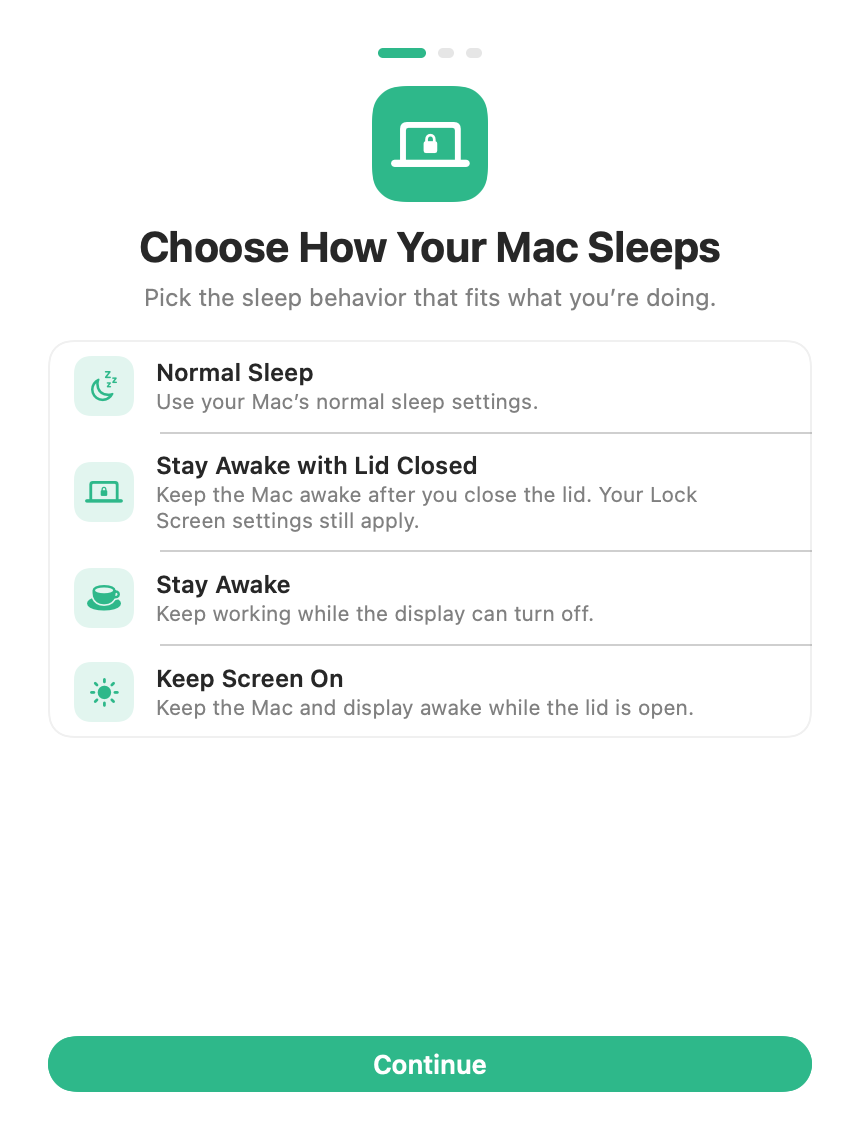
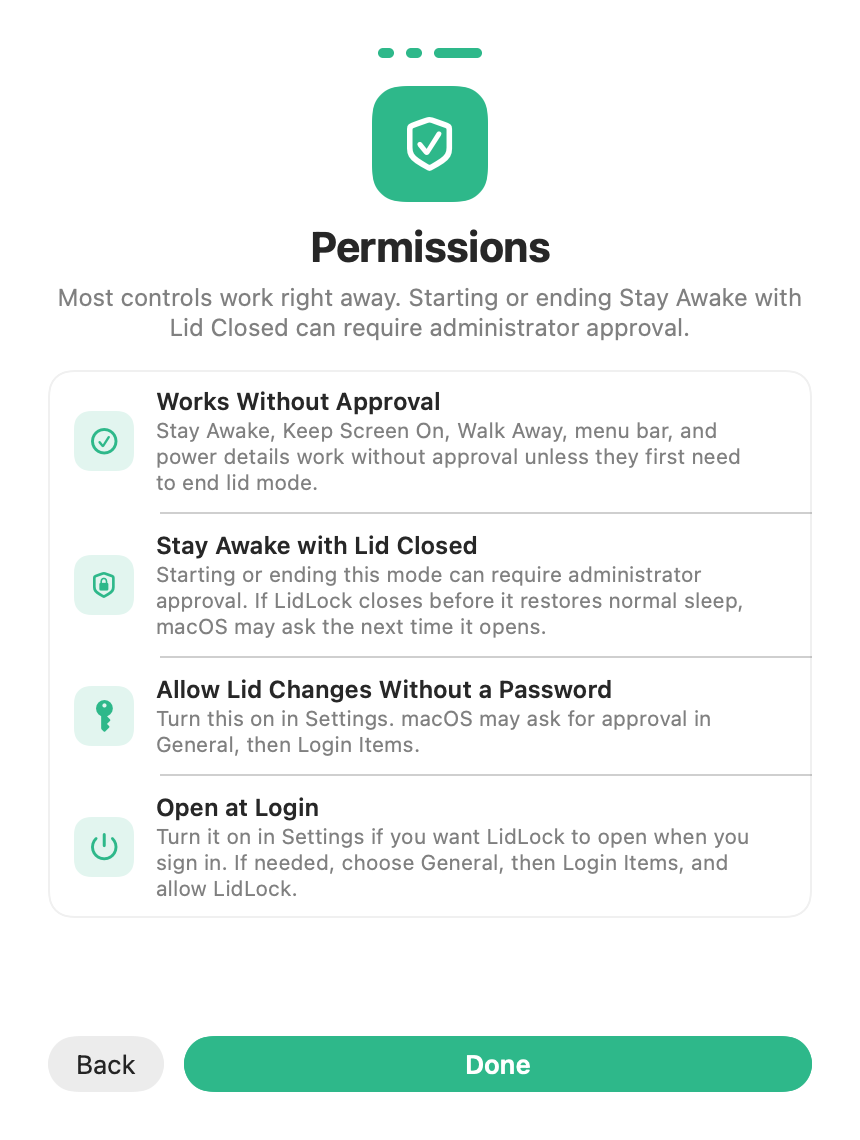
Publish LidLock 1.2.2
Publish the 1.2.2 distribution metadata, permission guidance, release notes, checksum, issue template version, and updated onboarding screenshot.

diff --git a/GETTING_STARTED.md b/GETTING_STARTED.md
@@ -4,7 +4,7 @@ LidLock is a macOS menu bar utility for controlling when your Mac and display
 sleep. It is free to use, requires no account, and does not collect personal
 information.
 
-The current public download is version 1.2.1.
+The current public download is version 1.2.2.
 
 ## Install LidLock
 
@@ -13,14 +13,17 @@ The current public download is version 1.2.1.
 3. Open LidLock from Applications.
 4. macOS checks that DelPage Technologies signed the app and Apple notarized it.
 
-Move LidLock to Applications when you want the optional password-free helper.
-The rest of the app can run without that helper.
+Move LidLock to Applications when you want to allow lid changes without a
+password. The rest of the app can run without that approval.
 
 ## First Launch
 
 On first launch, LidLock explains each sleep option and Walk Away. It also shows
-where to find LidLock after you close its window. The guide explains why Stay
-Awake with Lid Closed needs an administrator password.
+where to find LidLock after you close its window. The permissions page explains
+which controls work immediately, when macOS may ask for administrator approval,
+and when approval must be completed in Login Items.
+
+LidLock shows another prompt before a protected action and explains the next step.
 
 You can reopen this guide anytime from **Settings**, then **Getting Started**.
 
@@ -45,18 +48,22 @@ When you choose **Stay Awake with Lid Closed**, LidLock reads the lid-close
 sleep setting back before it shows **Active**. While the mode is active, LidLock
 holds a stronger system sleep assertion to help keep the Mac awake.
 
-In version 1.2.1, the mode no longer issues a display sleep command when the lid
-closes. This removes LidLock's direct Lock Screen trigger. Your macOS Lock Screen
-settings still apply.
+Since version 1.2.1, the mode no longer issues a display sleep command when the
+lid closes. This removes LidLock's direct Lock Screen trigger. Your macOS Lock
+Screen settings still apply.
 
 ## Permissions and Approvals
 
 | Feature | What macOS may request | Why |
 |---|---|---|
 | Normal Sleep, Stay Awake, Keep Screen On, and Walk Away | Nothing | They work as soon as LidLock opens. |
-| Stay Awake with Lid Closed | Administrator password | macOS protects changes to how the Mac sleeps with its lid shut. |
-| Password-free lid control | Optional helper approval | The signed helper can change only the lid sleep setting. |
+| Stay Awake with Lid Closed | Administrator approval when saved approval is off | macOS protects changes to how the Mac sleeps with its lid shut. |
+| Allow lid changes without a password | Optional Login Items approval | The signed helper can change only the lid sleep setting. |
 | Open at login | Optional approval under Login Items | macOS lets you decide which apps open when you sign in. |
+
+LidLock explains the extra step before it continues. When Login Items approval
+is required, the prompt can open the correct System Settings page. Settings also
+shows **Waiting for approval** until macOS reports that the request is enabled.
 
 LidLock does not request access to your files, screen contents, camera,
 microphone, location, contacts, or Accessibility controls.
@@ -66,24 +73,27 @@ microphone, location, contacts, or Accessibility controls.
 Stay Awake with Lid Closed changes how the Mac sleeps when you close its lid.
 macOS asks for an administrator password when that setting changes.
 
-Before the password prompt appears, LidLock explains what will change. The Mac
-can stay awake while you keep the lid closed. This does not give
+Before the password prompt appears, LidLock explains what will change and lets
+you continue or cancel. The same guidance appears when restoring normal sleep if
+administrator approval is needed. These approvals do not give
 LidLock access to your files, screen, or other apps.
 
-### Optional Password-free Helper
+### Optional Approval for Lid Changes
 
 Without the helper, macOS may ask for an administrator password when you turn
 Stay Awake with Lid Closed on or off. If you prefer fewer prompts, open
-**Settings** and enable **Use password-free lid control**.
+**Settings** and enable **Allow lid changes without a password**.
 
 The helper is optional. DelPage Technologies signs it, and it changes only the
-lid sleep setting. Turn the same setting off to remove it. All other LidLock
-features work without the helper.
+lid sleep setting. macOS may ask you to approve LidLock under **System Settings**,
+**General**, **Login Items**. LidLock can open that page for you. Turn the same
+setting off to remove the approval. All other LidLock features work without it.
 
 ### Optional Open at Login
 
 Open at login is off until you enable it. macOS may ask you to approve LidLock
-under **System Settings**, **General**, **Login Items**. This approval only lets
+under **System Settings**, **General**, **Login Items**. LidLock shows an
+**Open Login Items** button when that step is needed. This approval only lets
 LidLock open after you sign in.
 
 ## Replace Older Copies
@@ -91,7 +101,7 @@ LidLock open after you sign in.
 When you update LidLock, remove older copies before installing the new version:
 
 1. Choose **Normal Sleep** in the copy you are currently using.
-2. Turn off **Use password-free lid control** and **Open at login** in Settings.
+2. Turn off **Allow lid changes without a password** and **Open at login** in Settings.
 3. Choose **Quit LidLock** from the menu bar.
 4. Remove every `LidLock.app` from Applications, your user Applications folder, and Downloads.
 5. Eject every mounted LidLock disk image.

diff --git a/README.md b/README.md
@@ -23,17 +23,18 @@ LidLock is free software published by DelPage Technologies.
 ## Free Download
 
 - [Download LidLock.dmg](https://github.com/DelPage/lidlock/releases/latest/download/LidLock.dmg)
-- Current version: **1.2.1**
[1 lines of base64/hex data omitted]
+- Current version: **1.2.2**
[1 lines of base64/hex data omitted]
 
 LidLock requires **macOS 13 Ventura or newer**. Apple signs the distributed app
 with Developer ID and notarizes it.
 
 ## Getting Started
 
-Version 1.2.1 includes a short first launch guide to the sleep controls, Walk
-Away, the menu bar, and administrator approval. You can reopen it anytime from
-**Settings**, then **Getting Started**.
+Version 1.2.2 explains which actions work immediately and which ones need
+administrator approval or approval in Login Items. LidLock also shows a prompt
+before a protected action and tells you exactly what to approve. You can reopen
+the first launch guide anytime from **Settings**, then **Getting Started**.
 
 [Read the complete guide to install LidLock and review its permissions](GETTING_STARTED.md).
 
@@ -51,15 +52,22 @@ Away, the menu bar, and administrator approval. You can reopen it anytime from
   reads the lid-close setting back before showing **Active**, then holds a
   stronger system sleep assertion while active. macOS Lock Screen settings still
   apply.
+- In version 1.2.2, LidLock explains any extra approval before it continues.
+  Prompts cover administrator approval, Login Items approval, restoring normal
+  sleep, and quitting while the lid setting is still on.
 
 ## Permissions at a Glance
 
 | Feature | Approval | Why |
 |---|---|---|
 | Normal Sleep, Stay Awake, Keep Screen On, and Walk Away | None | They work as soon as LidLock opens. |
-| Stay Awake with Lid Closed | Administrator password | macOS protects changes to how the Mac sleeps with its lid shut. |
-| Password-free lid control | Optional helper approval | A signed helper can change only the lid sleep setting. |
+| Stay Awake with Lid Closed | Administrator approval when saved approval is off | macOS protects changes to how the Mac sleeps with its lid shut. |
+| Allow lid changes without a password | Optional Login Items approval | A signed helper can change only the lid sleep setting. |
 | Open at login | Optional Login Items approval | macOS lets you choose which apps open when you sign in. |
+
+When an extra step is needed, LidLock shows a prompt before it continues. If
+approval must be completed in System Settings, LidLock can open Login Items for
+you and shows that approval is still pending.
 
 LidLock does not request access to files, screen contents, camera, microphone,
 location, contacts, or Accessibility controls. Read

diff --git a/release-notes/v1.2.2.md b/release-notes/v1.2.2.md
@@ -1,0 +1,70 @@
+# LidLock 1.2.2
+
+LidLock now explains any extra approval before it continues and directs you to
+the right System Settings page when another step is needed.
+
+## Download
+
+Apple signs the attached `LidLock.dmg` with Developer ID and notarizes it.
+Gatekeeper validates both the app and disk image.
+
+SHA-256:
+
+```text
+7972ce8f12760ec576b0d72eff97d0731057e9de36c317dca45cde12a86a3d1a  LidLock.dmg
+```
+
+## What Changed
+
+- LidLock explains the effect of Stay Awake with Lid Closed before macOS asks
+  for administrator approval.
+- Restoring Normal Sleep also explains administrator approval before the
+  password prompt appears.
+- The optional lid approval and Open at login prompts can open Login Items when
+  approval must be completed in System Settings.
+- Settings shows when approval is still pending.
+- Quit guidance keeps LidLock open when normal sleep was not restored, unless
+  you explicitly choose to quit and leave the lid setting on.
+- The first launch guide and Settings now list which controls need approval.
+
+## Approvals
+
+Most controls work immediately. Stay Awake, Keep Screen On, Walk Away, the menu
+bar, and power details do not need approval unless they first need to end Stay
+Awake with Lid Closed.
+
+Starting or ending Stay Awake with Lid Closed can require administrator
+approval. LidLock explains the request before macOS asks for a password.
+
+If you enable **Allow lid changes without a password** or **Open at login**,
+macOS may require approval under **System Settings**, **General**, **Login
+Items**. LidLock can open Login Items and shows when approval is pending.
+
+## Replacing Older Copies
+
+Before installing this version, choose **Normal Sleep**, turn off **Allow lid
+changes without a password** and **Open at login**, quit LidLock, and remove
+older copies. Install the new copy in the main Applications folder.
+
+The [Getting Started guide](https://github.com/DelPage/lidlock/blob/main/GETTING_STARTED.md#replace-older-copies)
+has the complete cleanup steps.
+
+## Requirements
+
+- macOS 13 Ventura or newer.
+- A MacBook for Stay Awake with Lid Closed. Other Macs can still use the awake
+  and display controls.
+
+## Privacy
+
+LidLock has no accounts, analytics, telemetry, or advertising. It does not
+contact any server while you use it. The optional helper stays on your Mac and
+changes only the lid sleep setting.
+
+Privacy policy: https://github.com/DelPage/lidlock/blob/main/PRIVACY.md
+
+## Support
+
+Use GitHub Issues for bug reports and compatibility notes:
+
+https://github.com/DelPage/lidlock/issues

diff --git a/CHANGELOG.md b/CHANGELOG.md
@@ -2,6 +2,22 @@
 
 This changelog lists every notable public LidLock release.
 
+## 1.2.2 - 2026-08-20
+
+- Added clear guidance before starting or ending Stay Awake with Lid Closed
+  when administrator approval may be required.
+- Added prompts that can open Login Items when the optional lid approval or
+  Open at login needs approval in System Settings.
+- Added safer quit guidance when normal sleep cannot be restored or the lid
+  setting would remain on after LidLock quits.
+- Expanded the first launch guide and Settings permissions section so people
+  can see which actions need approval before using them.
+
+Artifact:
+
+- `LidLock.dmg`
[1 lines of base64/hex data omitted]
+
 ## 1.2.1 - 2026-08-20
 
 - Renamed the lid-closed mode to **Stay Awake with Lid Closed**.
